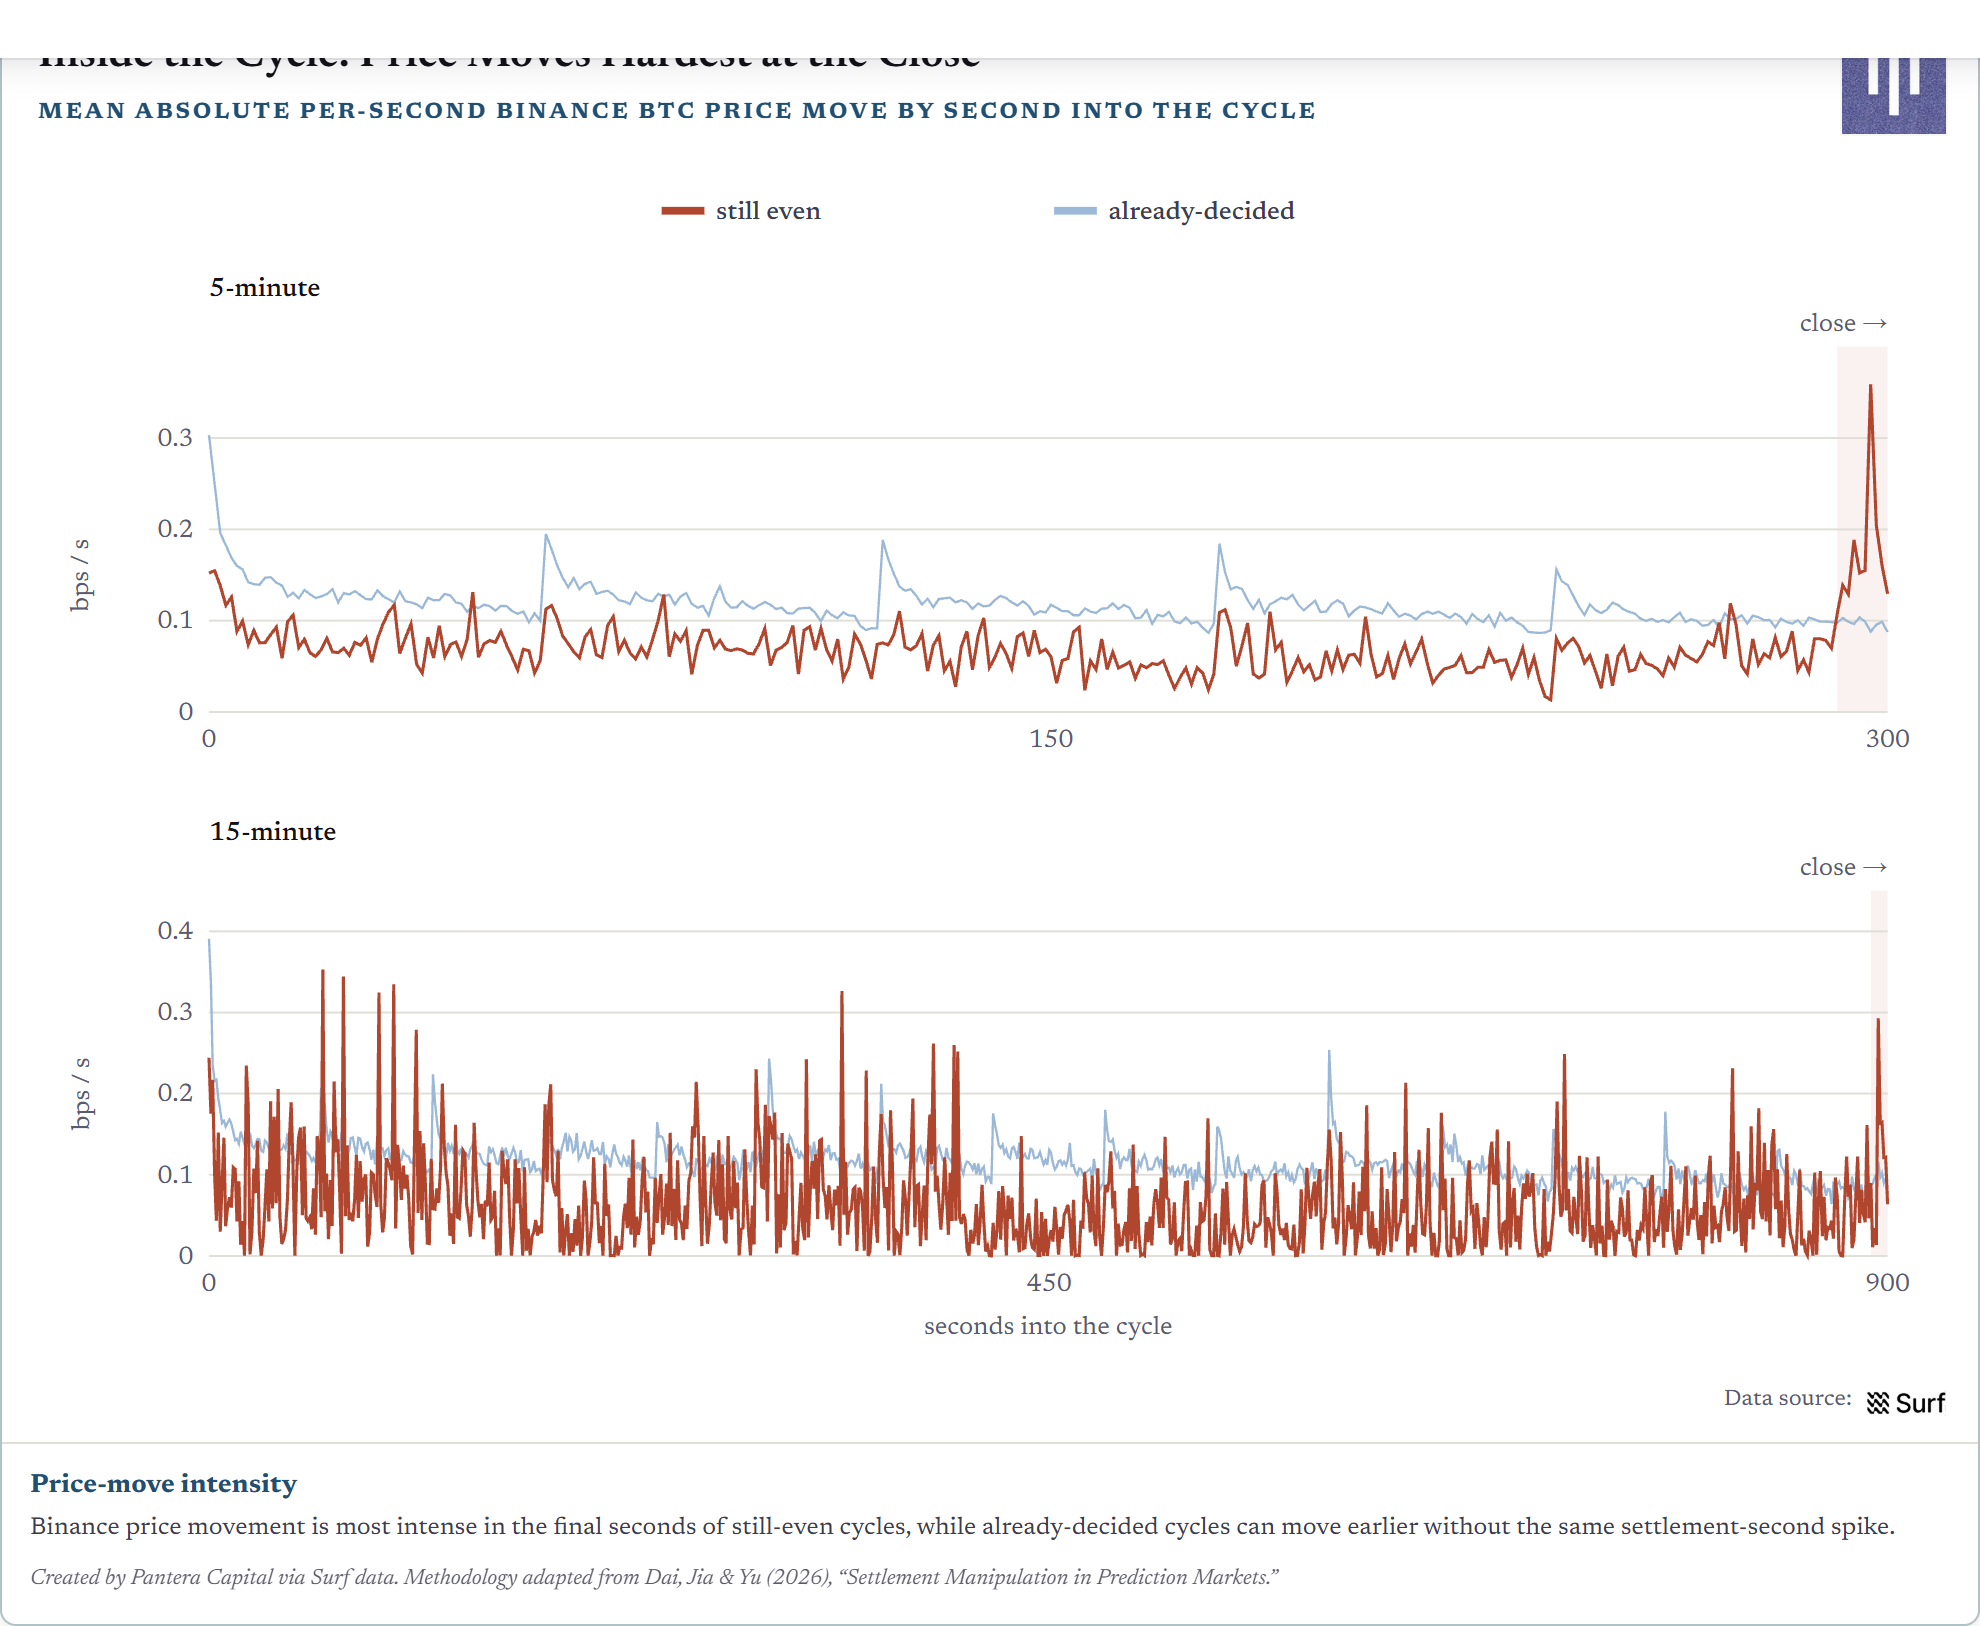
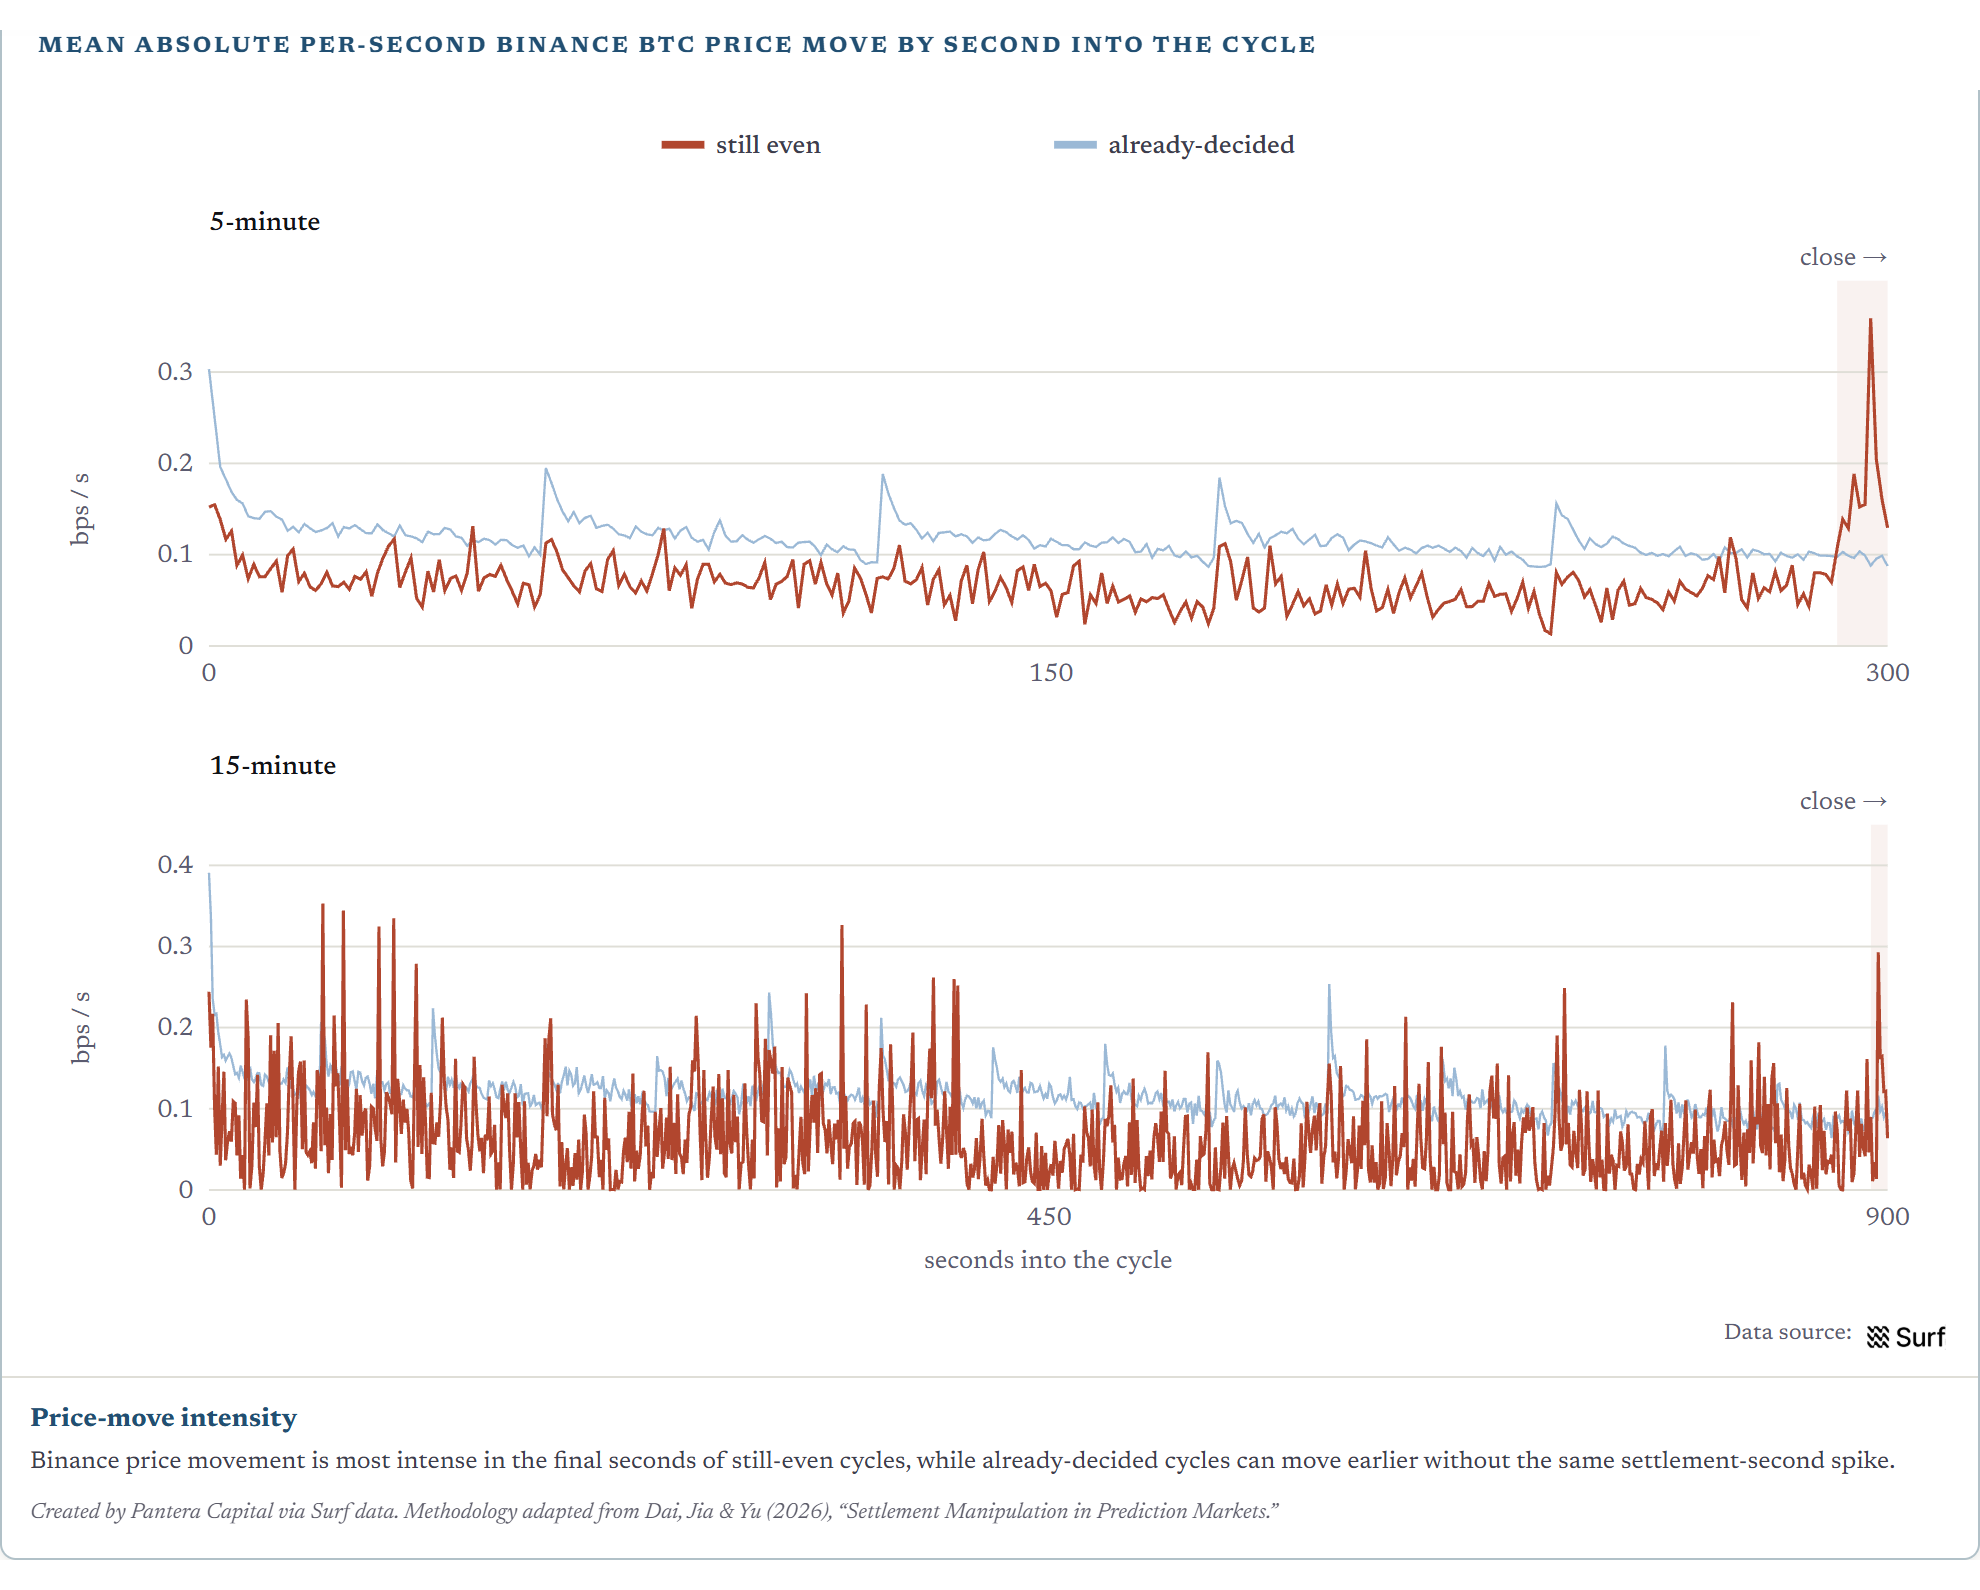
Reorder Pantera cards and fix the clipped chart title
- Move The State of Tokenization to the left-top slot; Speculative Swells beneath
  it; push Pantera DATboard into the expandable set (hidden from the initial view)
- Trim the clipped title row off the Inside the Cycle chart export so it leads
  cleanly with its subtitle (the source PNG had the title cut at the top edge)

diff --git a/src/components/chapters.ts b/src/components/chapters.ts
@@ -51,13 +51,6 @@ export const chapters: Chapter[] = [
         thumb: "from-[#EAD9CE] to-[#F2EFE8]",
       },
       {
-        title: "Pantera DATboard",
-        descriptor: "Live tracker of BTC/ETH/SOL treasury holdings, parsed from SEC 10-Q/8-K filings.",
-        href: "https://datboard.panteraresearchlab.xyz/",
-        img: "/pantera-datboard-portal.png",
-        thumb: "from-[#EAD9CE] to-[#F2EFE8]",
-      },
-      {
         title: "The State of Tokenization: Q1 2026 Report",
         descriptor: "Mapped 593 tokenized assets totaling $320.6B, published on panteracapital.com.",
         href: "https://panteracapital.com/the-state-of-tokenization/",
@@ -65,17 +58,17 @@ export const chapters: Chapter[] = [
         thumb: "from-[#EAD9CE] to-[#F2EFE8]",
       },
       {
-        title: "The Super Bowl of Prediction Markets",
-        descriptor: "First-authored report on Kalshi vs Polymarket's fight over price discovery and liquidity.",
-        href: "https://panteraresearchlab.xyz/research/the-super-bowl-of-prediction-markets-kalshi-and-polymarkets-battle-for-price-vs-liquidity/",
-        img: "/pantera-superbowl-report-cover.png",
-        thumb: "from-[#EAD9CE] to-[#F2EFE8]",
-      },
-      {
         title: "Speculative Swells and the Memecoin Aftermath",
         descriptor: "Supply-shock analysis of memecoin price moves, published in the Stanford Blockchain Review.",
         href: "https://review.stanfordblockchain.xyz/p/49-speculative-swells-and-the-memecoin",
         img: "/pantera-prl-memecoin-cover.png",
+        thumb: "from-[#EAD9CE] to-[#F2EFE8]",
+      },
+      {
+        title: "The Super Bowl of Prediction Markets",
+        descriptor: "First-authored report on Kalshi vs Polymarket's fight over price discovery and liquidity.",
+        href: "https://panteraresearchlab.xyz/research/the-super-bowl-of-prediction-markets-kalshi-and-polymarkets-battle-for-price-vs-liquidity/",
+        img: "/pantera-superbowl-report-cover.png",
         thumb: "from-[#EAD9CE] to-[#F2EFE8]",
       },
       {
@@ -90,6 +83,13 @@ export const chapters: Chapter[] = [
         descriptor: "Open-source dashboard joining on-chain and off-chain tokenized assets in one interactive view.",
         href: "https://tokenization.panteraresearchlab.xyz/",
         img: "/pantera-tokenization-portal.png",
+        thumb: "from-[#EAD9CE] to-[#F2EFE8]",
+      },
+      {
+        title: "Pantera DATboard",
+        descriptor: "Live tracker of BTC/ETH/SOL treasury holdings, parsed from SEC 10-Q/8-K filings.",
+        href: "https://datboard.panteraresearchlab.xyz/",
+        img: "/pantera-datboard-portal.png",
         thumb: "from-[#EAD9CE] to-[#F2EFE8]",
       },
       {